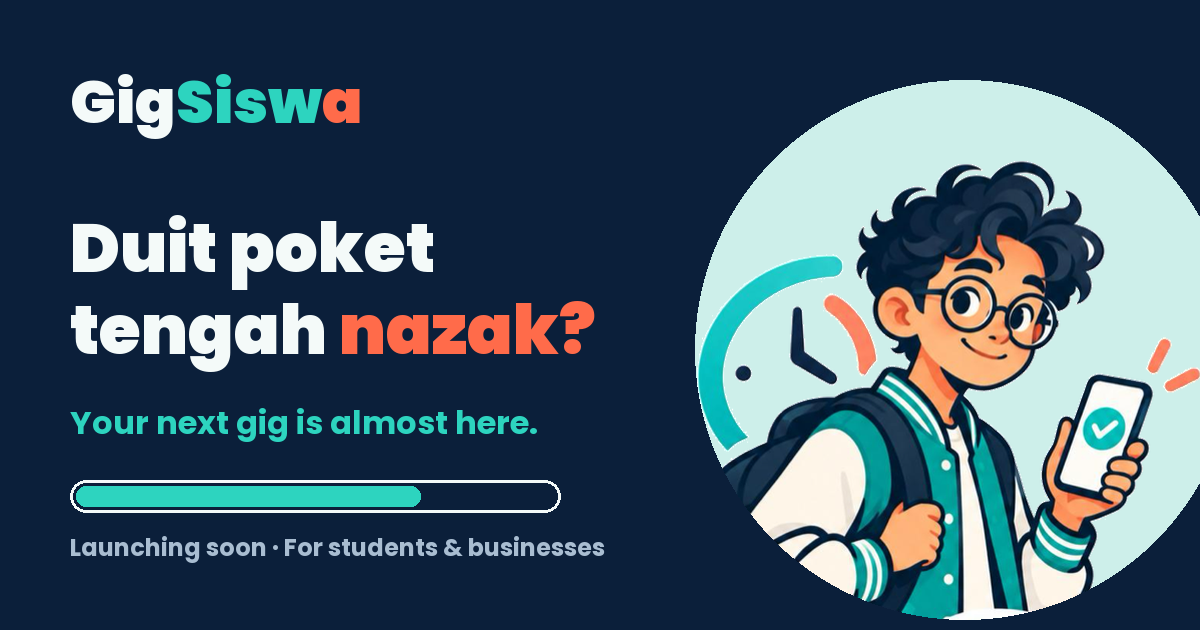
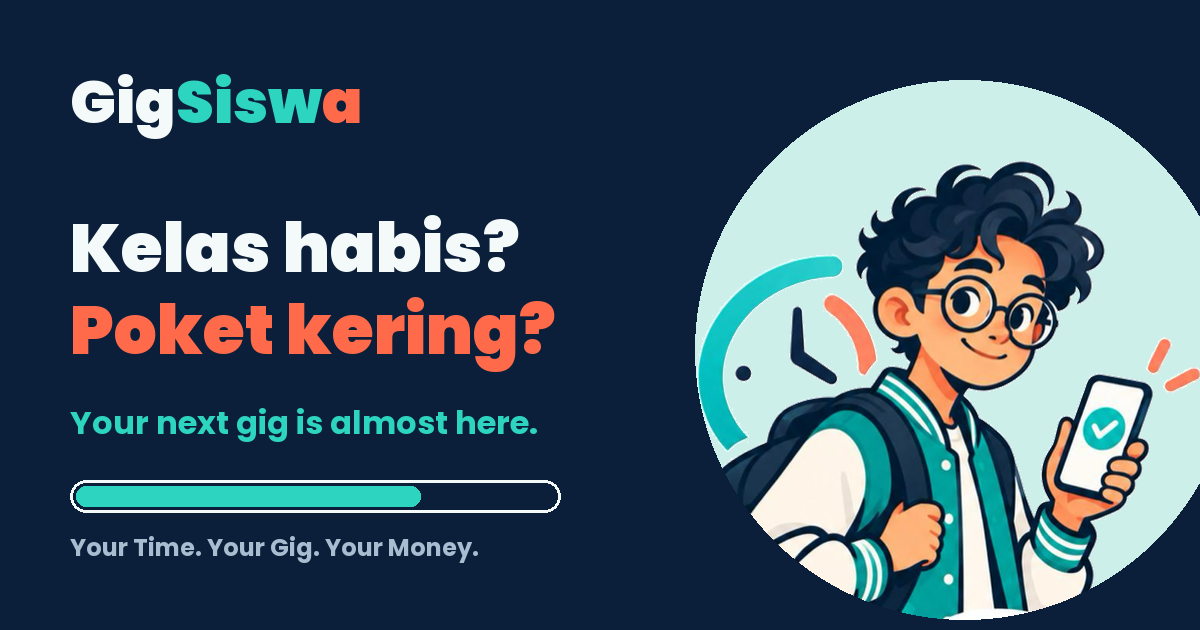
New headline and tagline
"Kelas habis? Poket kering?" and "Your Time. Your Gig. Your Money.",
including the share image.

Changed region(s): [[0.0617, 0.3317, 0.4933, 0.6032], [0.0617, 0.8444, 0.5242, 0.9048]]

diff --git a/index.html b/index.html
@@ -9,7 +9,7 @@
   <!-- Where the sign-up form posts. Staging API for now; change for production. -->
   <meta name="gigsiswa-api" content="https://stugig-api.217-182-65-244.sslip.io">
   <meta property="og:type" content="website">
-  <meta property="og:title" content="GigSiswa · Duit poket tengah nazak?">
+  <meta property="og:title" content="GigSiswa · Kelas habis? Poket kering?">
   <meta property="og:description" content="Gig jobs for university students, short shifts for businesses. Launching soon.">
   <meta property="og:image" content="https://pijai.github.io/gigsiswa-web/assets/og-image.png">
   <meta property="og:url" content="https://pijai.github.io/gigsiswa-web/">
@@ -34,7 +34,7 @@
   <section class="hero">
     <div class="wrap">
       <div class="hero-copy">
-        <h1>Duit poket tengah <span class="hl">nazak?</span> 👀</h1>
+        <h1>Kelas habis? <span class="hl">Poket kering?</span></h1>
         <p class="sub">Your next gig is almost here.</p>
         <p class="lede">Assignment tak habis, duit poket makin nipis? <strong>GigSiswa</strong> connects university students with businesses that need extra hands for short, hourly shifts. Got free time? Turn it into earning time.</p>
         <div class="ctas">
@@ -140,7 +140,7 @@
 
 <footer>
   <div class="wrap">
-    <p class="tag">Cari Gig. Buat Duit. <span>Repeat.</span> 💸</p>
+    <p class="tag">Your Time. Your Gig. <span>Your Money.</span></p>
     <small>© 2026 GigSiswa · Made in Malaysia for siswa and the businesses that need them</small>
   </div>
 </footer>
